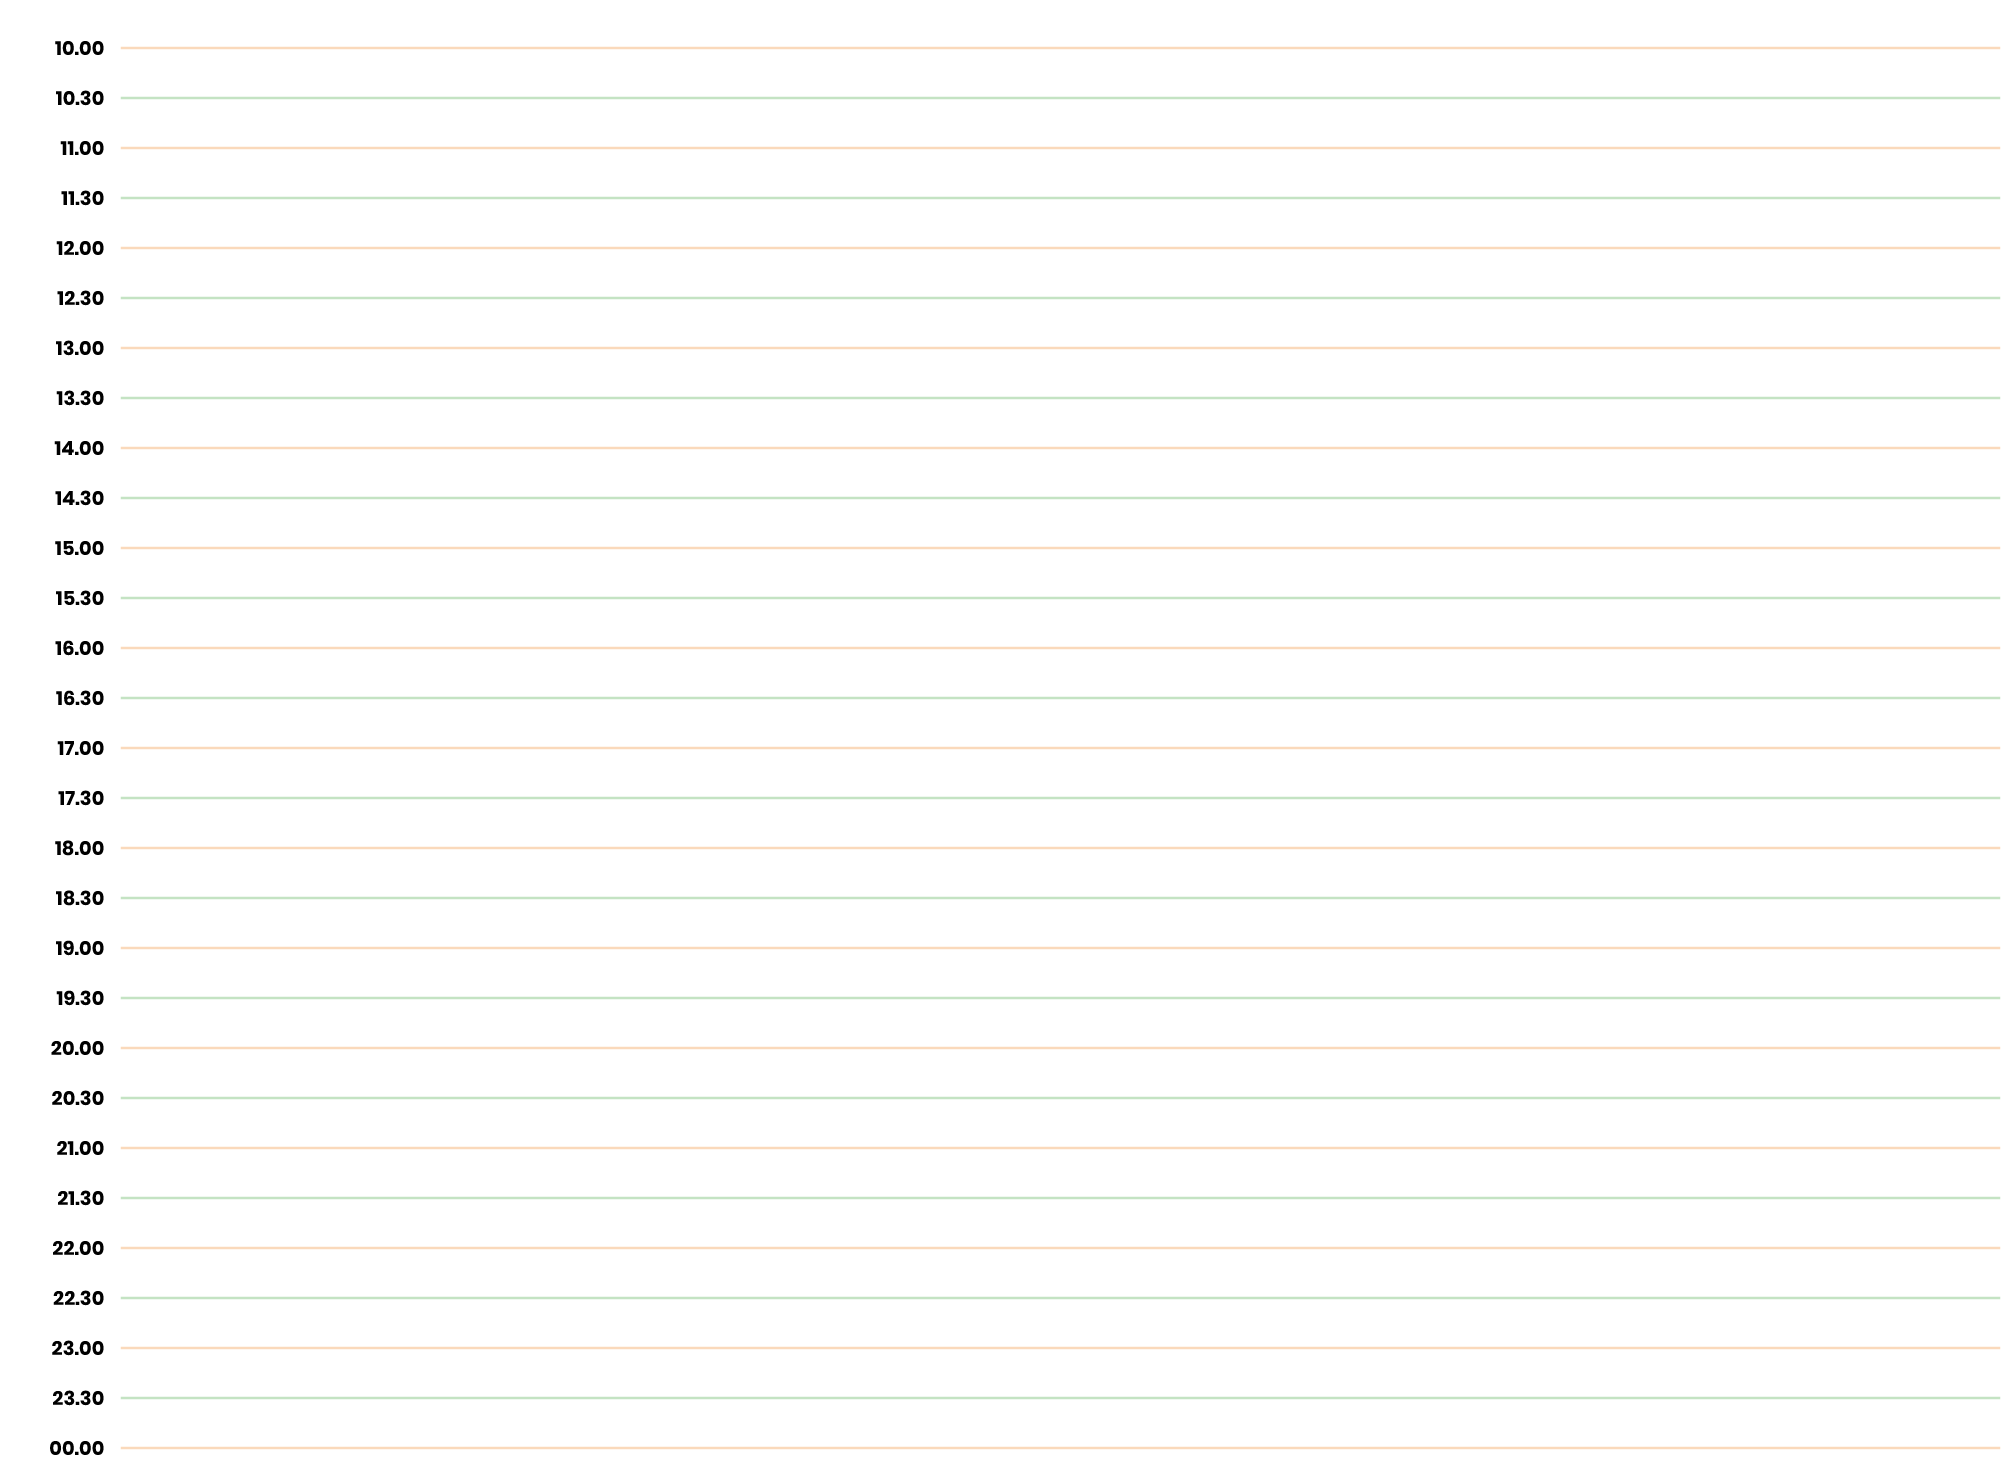
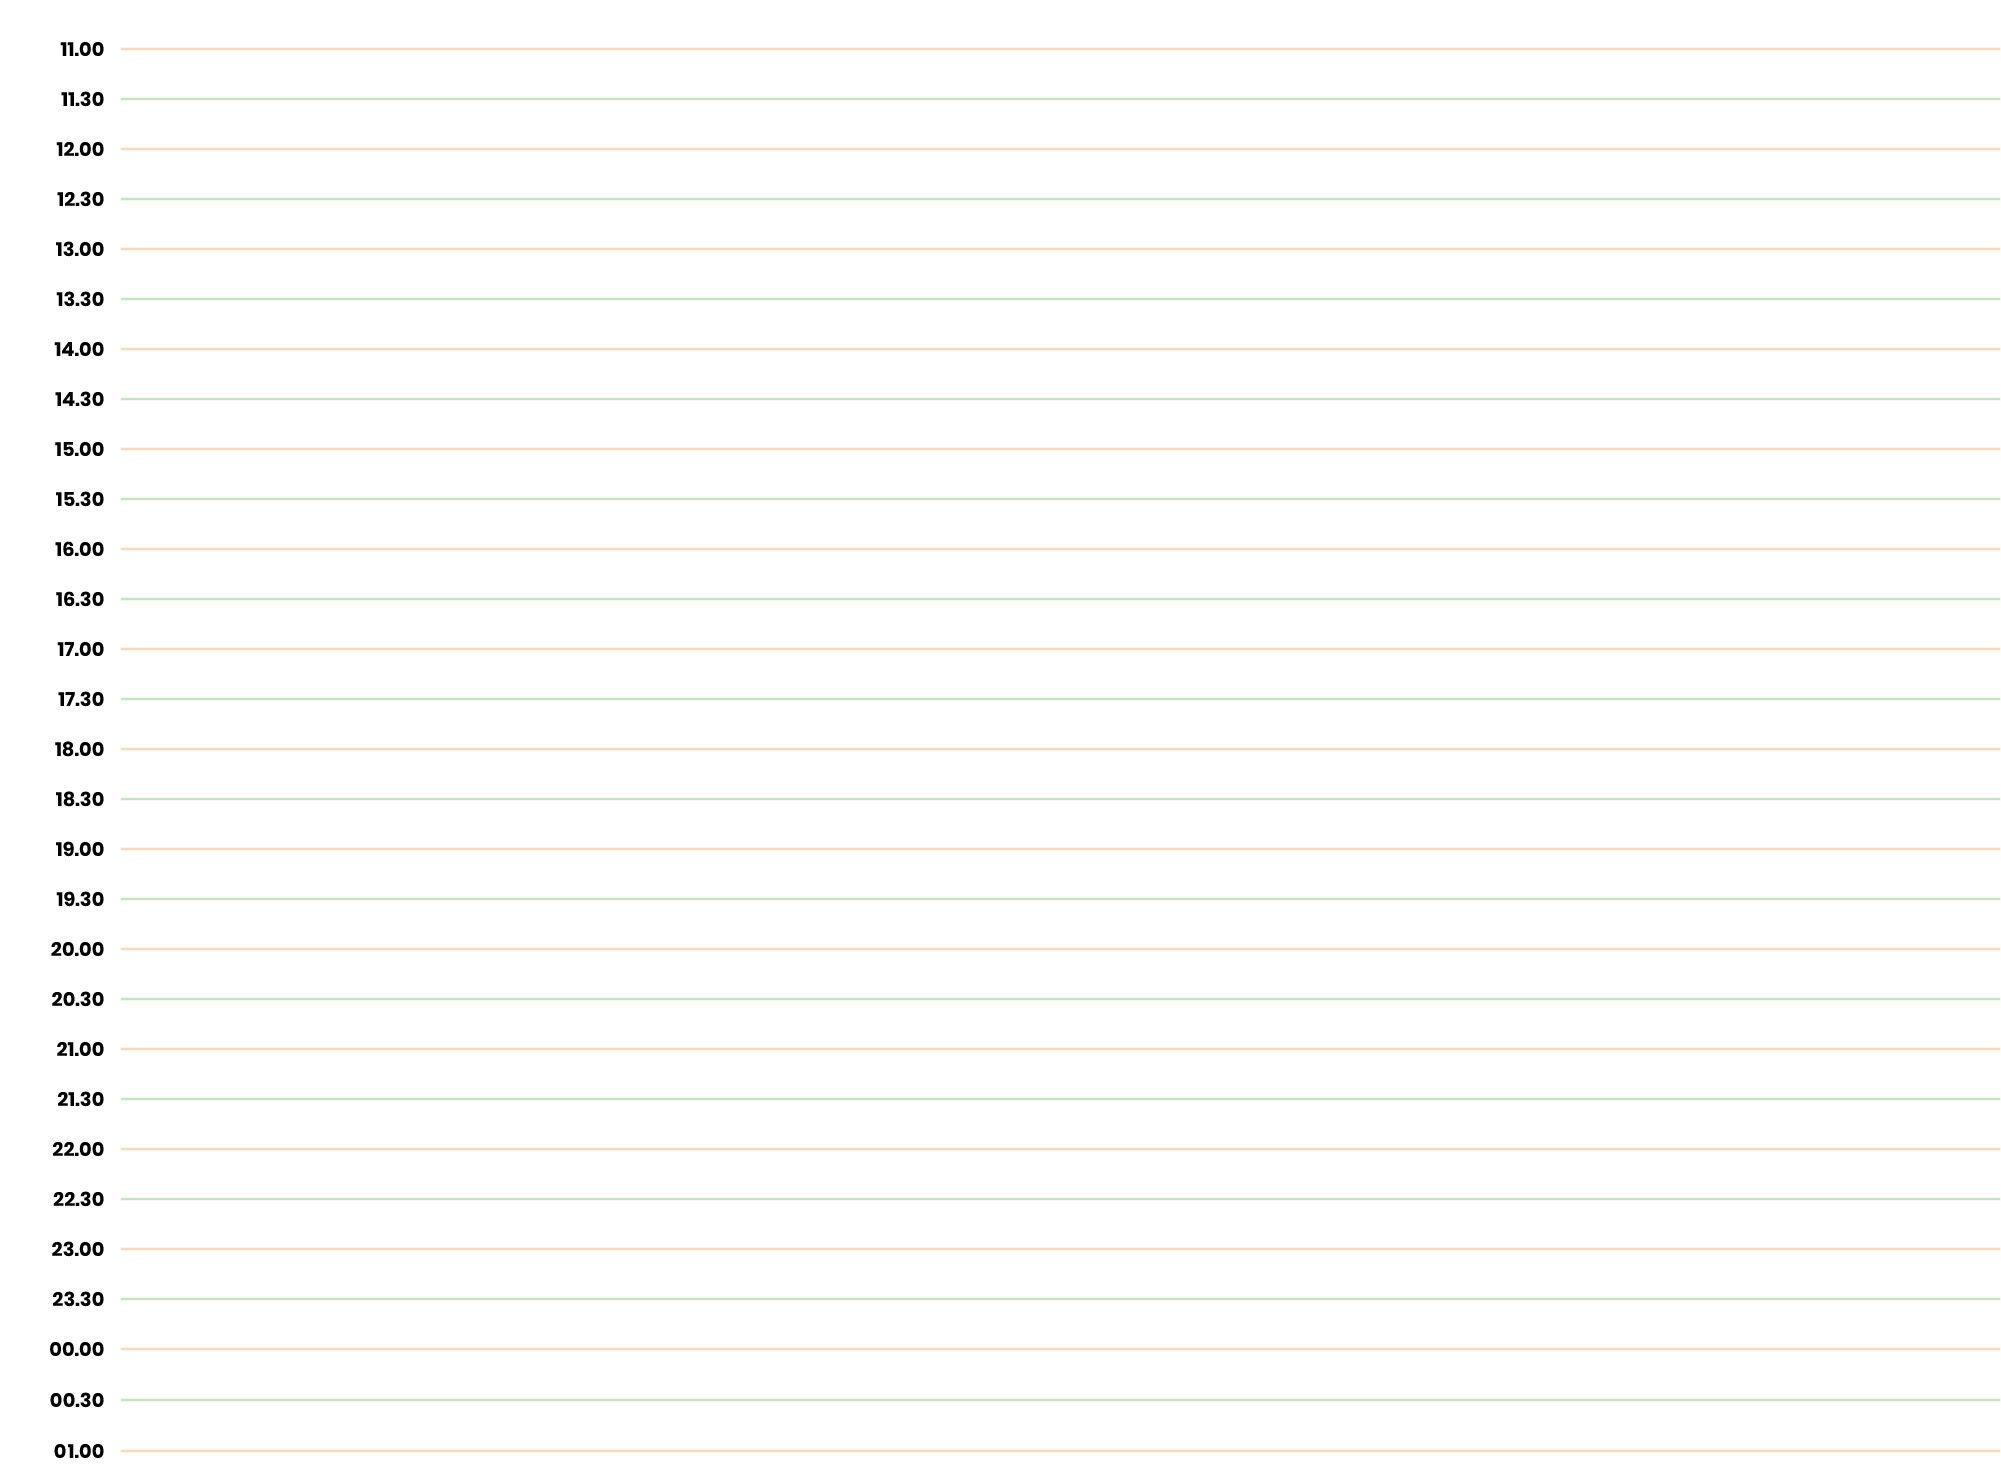
Automated commit for deployment

diff --git a/effect/templates/effect/program.html b/effect/templates/effect/program.html
@@ -50,24 +50,23 @@
           {% endif %}
         {% else %}
           <img class="single" src="{% thumbnail program.image 800x800 %}">
-          {% for link in program.hyperlinks.all %}
-            &nbsp; <a class="button" href="{{link.url}}">{{link.type}}</a>
-          {% endfor %}
         {% endif %}
+        {% for link in program.hyperlinks.all %}
+          &nbsp; <a class="button" href="{{link.url}}">{{link.type}}</a>
+        {% endfor %}
       </section>
     </article>
   </div>
 
   {% if program.videos.all %}
-    <div class="wrapper color1">
+    <div class="wrapper color2">
       {% for video in program.videos.all %}
-        <section class="video" style="max-width: 1000px">
+        <section class="video" style="max-width: 800px">
           <div class="video">
             <div class="iframe">
               {% video video.video '800x600' %}
             </div>
           </div>
-
         </section>
       {% endfor %}
     </div>

diff --git a/effect/views.py b/effect/views.py
@@ -30,7 +30,7 @@ def page(request, slug=''):
                 location.sun_slots = []
                 for timeslot in timeslots:
                     if timeslot.program.location.pk == location.pk:
-                        timeslot.top = (((timeslot.begin.hour - 7.53) + (timeslot.begin.minute / 60)) * 100) + 5
+                        timeslot.top = (((timeslot.begin.hour - 8.52) + (timeslot.begin.minute / 60)) * 100) + 5
                         delta = timeslot.end - timeslot.begin
                         timeslot.height = ((delta.seconds / 3600) * 100) - 8
                         if timeslot.height < 42:
